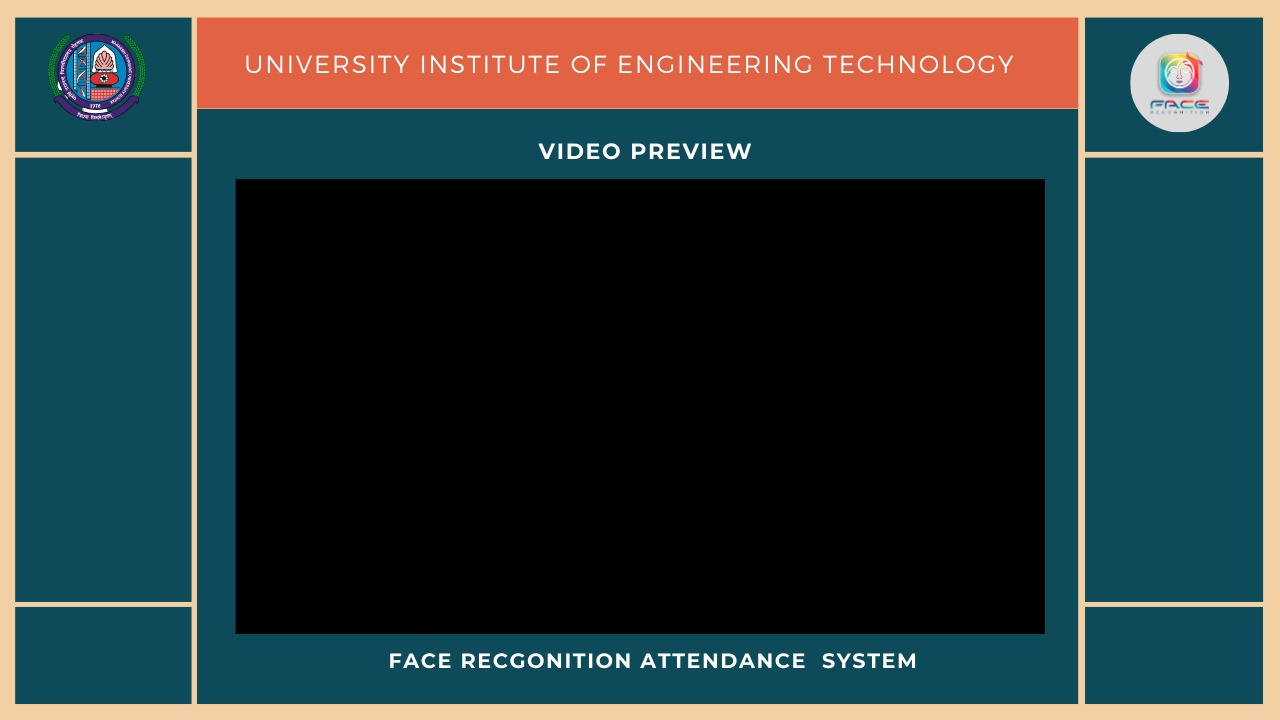
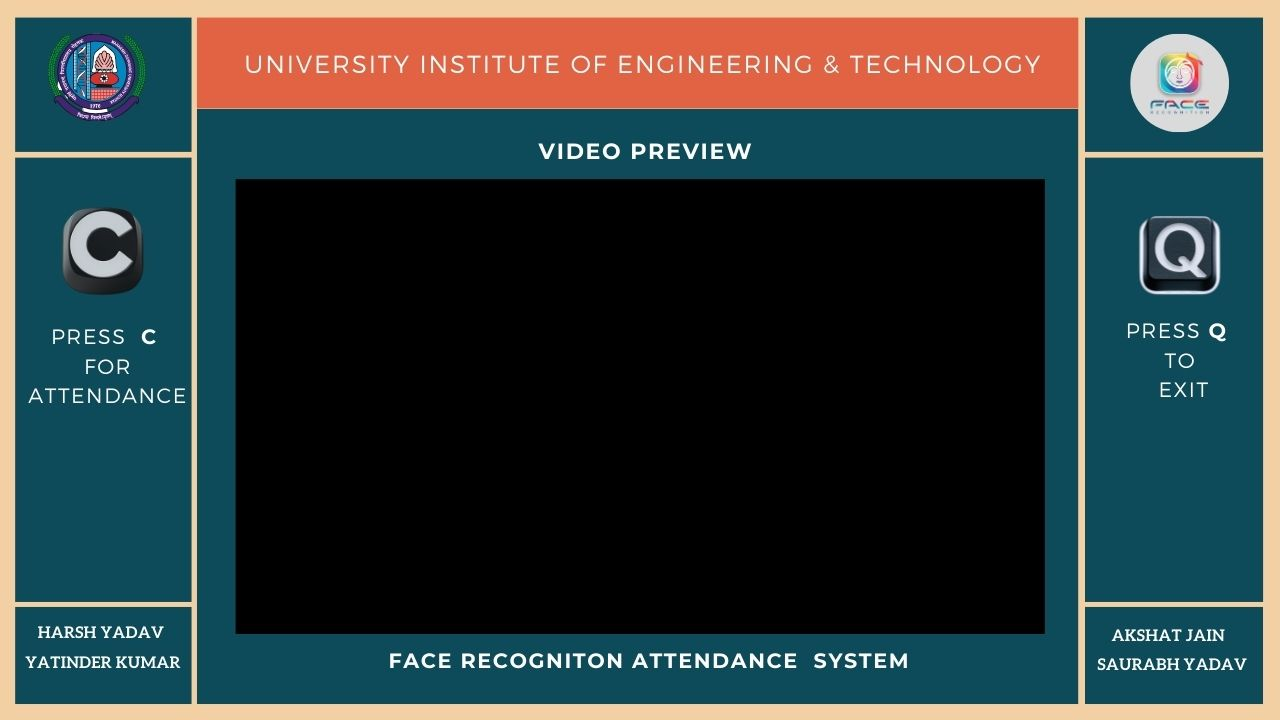
Update

diff --git a/app.py b/app.py
@@ -1,4 +1,5 @@
 import os
+import subprocess
 from tkinter import *
 from tkinter import ttk
 from CTkTable import *
@@ -17,6 +18,18 @@ class Second_Screen(ctk.CTkToplevel):
         self.path = os.path.dirname(os.path.realpath(__file__))
         self.open = ctk.CTkImage(dark_image=Image.open(self.path + "/assets/bkg2.jpg"), size=(1550, 900))
         self.bkg = ctk.CTkLabel(self, image=self.open, text='').pack(padx=1, pady=1)
+        self.btn_1 = ctk.CTkButton(self, text="Train Model", anchor=ctk.CENTER, compound="top", width=250, height=230, command=self.train_model, font=self.font, border_color="white", border_width=2, corner_radius=10, bg_color="#002949")
+        self.btn_1.place(x=50, y=250)
+        self.btn_2 = ctk.CTkButton(self, text="Mark Attendance", anchor=ctk.CENTER, compound="top", width=250, height=230, command=self.track_faces, font=self.font, border_color="white", border_width=2, corner_radius=10, bg_color="#002949")
+        self.btn_2.place(x=50, y=525)
+        self.btn_3 = ctk.CTkButton(self, text="Check Attendance", anchor=ctk.CENTER, compound="top", width=250, height=230, command=self.train_model, font=self.font, border_color="white", border_width=2, corner_radius=10, bg_color="#002949")
+        self.btn_3.place(x=350, y=250)
+
+    def train_model(self):
+        subprocess.Popen(["python", "train_model.py"])
+
+    def track_faces(self):
+        subprocess.Popen(["python", "track_faces.py"])
 
 class App(ctk.CTk):
     def __init__(self, *args, **kwargs):
